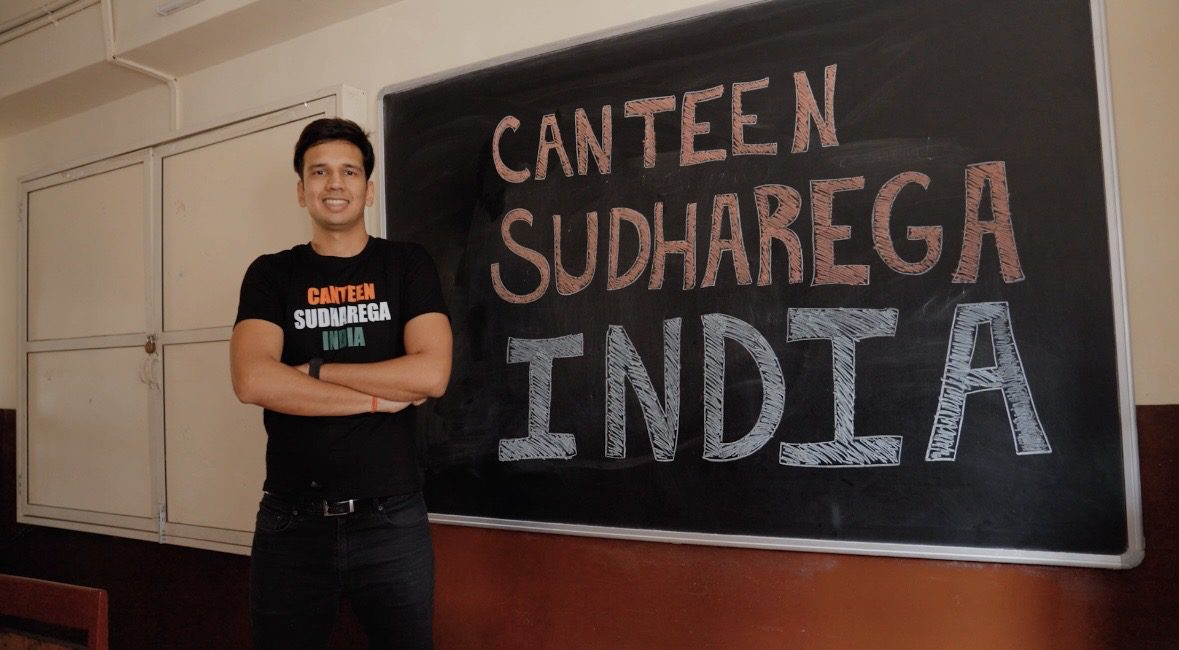
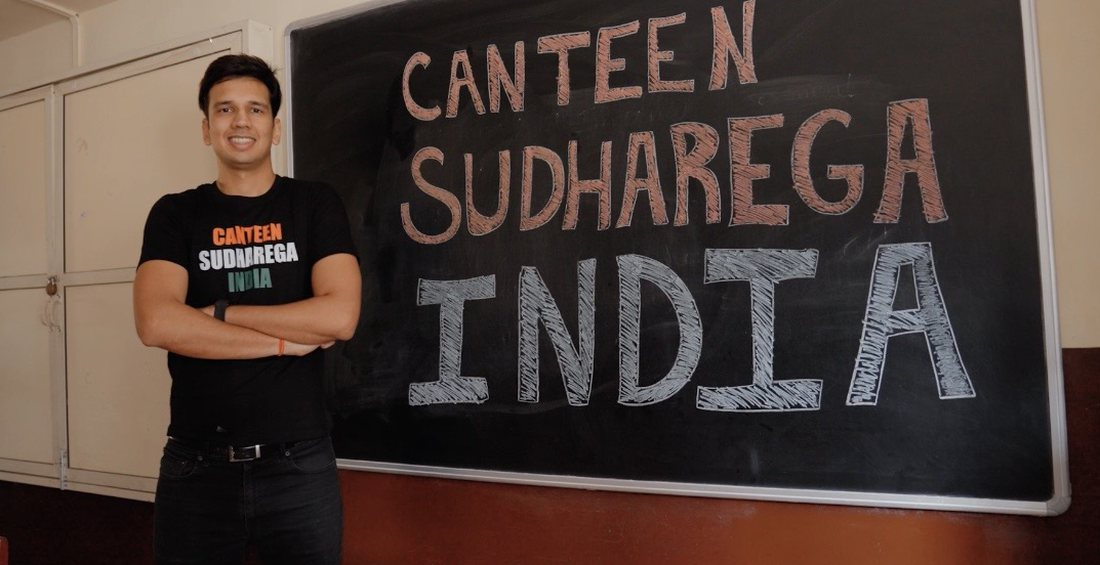
Searchable national campus picker, board toggle, tighter photos
- pick a campus from the full directory: 38,587 AISHE colleges and
  311,889 UDISE secondary schools, searchable, with a free-text fallback
- city-wise list switches between colleges and schools with a toggle
- thank-you block simplified: campus signature count plus what you can do
- photos cropped so the text and faces carry the frame

diff --git a/index.html b/index.html
@@ -159,6 +159,9 @@ footer b{color:var(--ink)}
 .seg{display:grid;grid-template-columns:1fr 1fr;border:2px solid var(--ink);border-radius:12px;overflow:hidden;margin-bottom:6px}
 .seg button{border:0;background:#fff;padding:10px;font-weight:700}
 .seg button[aria-pressed=true]{background:var(--ink);color:#fff}
+.segboard{max-width:360px;margin:0 0 14px;border-radius:999px;box-shadow:var(--shadow)}
+.segboard button{padding:12px 10px}
+.segboard button[aria-pressed=true]{background:var(--red);color:#fff}
 label.f,.flabel{display:block;font-weight:700;font-size:14px;margin:14px 0 6px}
 label.f small,.flabel small{font-weight:400;color:var(--muted)}
 .in{width:100%;border:2px solid var(--ink);border-radius:12px;padding:12px 14px;font:inherit;font-size:16px;background:#fff}
@@ -180,6 +183,28 @@ textarea.in{min-height:84px;resize:vertical}
 .qtag[aria-pressed=true]{background:var(--butter)}
 .photos{display:flex;flex-wrap:wrap;gap:10px;align-items:center}
 .tapHint{margin:2px 0 8px}
+
+/* campus picker: full screen on a phone, a centred panel on a laptop */
+button.picker{display:flex;align-items:center;justify-content:space-between;gap:10px;text-align:left;width:100%;cursor:pointer;background:#fff}
+button.picker .ph{color:#9b8f86}
+button.picker .caret{flex:none;color:var(--muted)}
+.pickwrap{position:fixed;inset:0;z-index:70;background:#fff;display:flex;flex-direction:column}
+.pickbar{display:flex;gap:8px;padding:12px;padding-top:max(12px,env(safe-area-inset-top));border-bottom:2.5px solid var(--ink);background:var(--paper)}
+.pickin{flex:1;min-width:0;font:inherit;font-size:16px;padding:12px 14px;border:2.5px solid var(--ink);background:#fff;color:var(--ink)}
+.pickx{flex:none;width:46px;border:2.5px solid var(--ink);background:#fff;font-size:17px}
+.pickhint{margin:0;padding:10px 14px;font-size:13px;color:var(--muted);background:var(--paper);border-bottom:1.5px solid var(--line)}
+.picklist{list-style:none;margin:0;padding:0;flex:1;overflow-y:auto;-webkit-overflow-scrolling:touch}
+.picklist li{border-bottom:1.5px solid var(--line)}
+.picklist button{display:block;width:100%;text-align:left;padding:14px;background:#fff;border:0;font:inherit;line-height:1.35}
+.picklist button:active{background:var(--sage-l)}
+.picklist .pn{display:block;font-weight:700}
+.picklist .pc{display:block;font-size:13px;color:var(--muted);margin-top:2px}
+.picklist .pcount{color:var(--green-d);font-weight:700}
+.pickfoot{padding:12px;padding-bottom:max(12px,env(safe-area-inset-bottom));border-top:2.5px solid var(--ink);background:var(--paper)}
+.useown{width:100%;padding:14px;border:2.5px solid var(--ink);background:var(--butter);font-weight:700;box-shadow:var(--shadow)}
+@media (min-width:720px){
+  .pickwrap{inset:6vh 50% auto 50%;transform:translateX(-50%);width:min(560px,92vw);max-height:84vh;border:3px solid var(--ink);box-shadow:8px 8px 0 var(--ink)}
+}
 .grp{margin:14px 0 0}
 .grph{margin:0 0 6px;font-size:13px;letter-spacing:.06em;text-transform:uppercase;color:var(--muted);display:flex;align-items:center;gap:8px}
 .grph span{background:var(--sage-l);border:1.5px solid var(--ink);border-radius:999px;padding:1px 8px;font-size:11px;color:var(--ink)}
@@ -187,9 +212,10 @@ textarea.in{min-height:84px;resize:vertical}
 .next h3{font-size:16px;margin:0 0 6px}
 .next p{margin:0 0 8px;font-size:14px;line-height:1.5}
 .next .nextb{margin:0;font-size:14px}
-.next .gap{color:var(--red);font-weight:700}
-.bar{display:block;height:10px;margin-top:9px;border:2px solid var(--ink);background:#fff}
-.bar i{display:block;height:100%;background:var(--green)}
+.next h4{margin:12px 0 6px;font-size:14px;text-transform:uppercase;letter-spacing:.05em;color:var(--red)}
+.next .todo{margin:0;padding-left:18px;font-size:14px;line-height:1.55}
+.next .todo li{margin:0 0 5px}
+.next .todo a{font-weight:700;word-break:break-word}
 #otherWrap{margin:0 0 10px}
 textarea.short{min-height:64px}
 .addph{display:inline-flex;align-items:center;gap:8px;border:2px dashed var(--ink);border-radius:12px;padding:12px 14px;font-weight:700;font-size:14px;background:#fff}
@@ -294,6 +320,10 @@ textarea.short{min-height:64px}
   <div class="wrap">
     <h2>The city-wise list</h2>
     <p class="board-sub">Schools and colleges ranked by the number of people who signed, with the average report-card grade students and parents gave their canteen.</p>
+    <div class="seg segboard" role="group" aria-label="Show colleges or schools">
+      <button type="button" data-kind="College" aria-pressed="true">🎓 Colleges</button>
+      <button type="button" data-kind="School" aria-pressed="false">🎒 Schools</button>
+    </div>
     <div class="tools">
       <input class="search" id="q" type="search" placeholder="Search your school, college or city…" aria-label="Search">
       <div class="chips" id="cityChips"></div>
@@ -312,6 +342,20 @@ textarea.short{min-height:64px}
 
 <div class="sticky" id="sticky"><button data-open>✍ Sign the petition →</button></div>
 
+<!-- campus picker -->
+<div class="pickwrap" id="pickWrap" hidden>
+  <div class="pickbar">
+    <input class="pickin" id="pickQ" type="search" autocomplete="off" autocorrect="off"
+           spellcheck="false" placeholder="Type your college name">
+    <button type="button" class="pickx" id="pickClose" aria-label="Close">✕</button>
+  </div>
+  <p class="pickhint" id="pickHint">Start typing — pick your campus from the list.</p>
+  <ul class="picklist" id="pickList"></ul>
+  <div class="pickfoot">
+    <button type="button" class="useown" id="useOwn" hidden></button>
+  </div>
+</div>
+
 <!-- form sheet -->
 <div class="scrim" id="scrim">
   <div class="sheet" id="sheet" role="dialog" aria-modal="true" aria-labelledby="sheetTitle">
@@ -326,9 +370,12 @@ textarea.short{min-height:64px}
           <button type="button" data-type="School" aria-pressed="false">🎒 School</button>
         </div>
 
-        <label class="f" for="inst">College / school name</label>
-        <input class="in" id="inst" list="instList" autocomplete="organization" placeholder="e.g. St. Xavier's College" maxlength="120">
-        <datalist id="instList"></datalist>
+        <label class="f" for="instBtn" id="instLbl">College name</label>
+        <button type="button" class="in picker" id="instBtn">
+          <span id="instText" class="ph">Search for your college</span>
+          <span class="caret" aria-hidden="true">▾</span>
+        </button>
+        <input type="hidden" id="inst" maxlength="120">
 
         <label class="f" for="city">City</label>
         <input class="in" id="city" list="cityList" autocomplete="address-level2" placeholder="e.g. Pune" maxlength="60">
@@ -382,12 +429,16 @@ textarea.short{min-height:64px}
       </div>
       <div class="next">
         <h3>What happens next</h3>
-        <p>Every signature is counted against your campus by name. The campuses with the
-           most signatures are the ones this campaign puts its weight behind first — in the
-           videos, and in what we take to the people who run these canteens.</p>
+        <p>Every signature is counted against your campus. We reach out to the campuses on
+           this list as part of a nationwide student movement for better canteens.</p>
         <p class="nextb" id="campusLine"></p>
+        <h4>What you can do</h4>
+        <ul class="todo">
+          <li>Write to your canteen or management asking for clean, affordable, healthy food.</li>
+          <li>Copy <a href="mailto:canteensudhergaindia@foodpharmer.net">canteensudhergaindia@foodpharmer.net</a> so we can back you up.</li>
+          <li>Get your batchmates and parents to sign.</li>
+        </ul>
       </div>
-      <p class="sharelead">So the fastest way to get your canteen looked at is to get your batchmates and parents to sign too.</p>
       <div class="share">
         <a class="wa" id="waBtn" href="#" target="_blank" rel="noopener">Share on WhatsApp</a>
         <button type="button" id="copyBtn">Copy message</button>
@@ -467,7 +518,7 @@ const SAMPLE = [
   ["Example Girls' College","Jaipur","College",77,123,77],["Demo Central School","Lucknow","School",58,29,58]
 ];
 
-const S = { type:"College", grade:"", tags:new Set(), photos:[], city:"all", q:"", open:new Set(), opened:0,
+const S = { type:"College", kind:"College", grade:"", tags:new Set(), photos:[], city:"all", q:"", open:new Set(), opened:0,
             data:{ list:[] }, shown:0 };
 
 /* ---------- data ---------- */
@@ -549,7 +600,7 @@ function render(){
 }
 function renderBoard(){
   const groups = new Map();
-  S.data.list.filter(r => +r[3] > 0).forEach(r => {
+  S.data.list.filter(r => +r[3] > 0 && (r[2] || "College") === S.kind).forEach(r => {
     const k = key(r[1]);
     if (!groups.has(k)) groups.set(k, { k, name: r[1], total: 0, items: [] });
     const g = groups.get(k); g.total += +r[3]; g.items.push(r);
@@ -562,39 +613,27 @@ function renderBoard(){
     `<button class="chip" data-city="${esc(c.k)}" aria-pressed="${c.k === S.city}">${esc(c.name)}</button>`).join("");
 
   const allCampuses = list.reduce((n, g) => n + g.items.length, 0);
-  $("#status").textContent = allCampuses ? `${fmt(allCampuses)} campus${allCampuses === 1 ? "" : "es"} across ${fmt(groups.size)} cit${groups.size === 1 ? "y" : "ies"}` : "";
+  const noun = S.kind === "School" ? "school" : "college";
+  $("#status").textContent = allCampuses ? `${fmt(allCampuses)} ${noun}${allCampuses === 1 ? "" : "s"} across ${fmt(groups.size)} cit${groups.size === 1 ? "y" : "ies"}` : "";
 
   if (S.city !== "all") list = list.filter(g => g.k === S.city);
   const q = key(S.q);
   if (q) list = list.map(g => ({ ...g, items: g.k.includes(q) ? g.items : g.items.filter(r => key(r[0]).includes(q)) })).filter(g => g.items.length);
 
   if (!list.length){
-    $("#cities").innerHTML = `<div class="empty">${q ? "No match yet. Be the first to add this campus!" : "No campuses yet. Yours could be first."}
+    $("#cities").innerHTML = `<div class="empty">${q ? "No match yet. Be the first to add this campus!" : (S.kind === "School" ? "No schools on the list yet. Yours could be first." : "No colleges on the list yet. Yours could be first.")}
       <br><br><button class="chip" data-open>✍ Sign for my campus</button></div>`;
     return;
   }
-  // Colleges and schools are listed separately inside each city.
-  const rows = (items, offset) => items.map((r, i) =>
-    `<li><span class="rk">${i + 1 + offset}</span><span class="nm">${esc(r[0])}</span><span class="ct">${fmt(r[3])}<small>signed</small></span>${badge(letter(+r[4], +r[5]))}</li>`).join("");
-
   $("#cities").innerHTML = list.map(g => {
+    const items = g.items.sort((a, b) => b[3] - a[3]);
     const full = S.open.has(g.k) || !!q;
-    const byType = t => g.items.filter(r => (r[2] || "College") === t).sort((a, b) => b[3] - a[3]);
-    const parts = [["College", "🎓 Colleges"], ["School", "🎒 Schools"]].map(([t, heading]) => {
-      const items = byType(t);
-      if (!items.length) return "";
-      const vis = full ? items : items.slice(0, SHOW_TOP);
-      return `<div class="grp">
-        <h4 class="grph">${heading} <span>${fmt(items.length)}</span></h4>
-        <div class="cols"><span>#</span><span>${t === "School" ? "School" : "College"}</span><span>Signed</span><span>Grade</span></div>
-        <ol>${rows(vis, 0)}</ol>
-      </div>`;
-    }).join("");
-    const most = Math.max(byType("College").length, byType("School").length);
+    const vis = full ? items : items.slice(0, SHOW_TOP);
     return `<section class="city">
-      <header><h3>${esc(g.name)}</h3><span>${fmt(g.total)} signed<br>${g.items.length} campus${g.items.length === 1 ? "" : "es"}</span></header>
-      ${parts}
-      ${most > SHOW_TOP && !q ? `<button class="more" data-more="${esc(g.k)}">${full ? "Show top 3 ↑" : `See the entire list (${g.items.length}) ↓`}</button>` : ""}
+      <header><h3>${esc(g.name)}</h3><span>${fmt(g.total)} signed<br>${items.length} ${S.kind === "School" ? "school" : "college"}${items.length === 1 ? "" : "s"}</span></header>
+      <div class="cols"><span>#</span><span>${S.kind === "School" ? "School" : "College"}</span><span>Signed</span><span>Grade</span></div>
+      <ol>${vis.map((r, i) => `<li><span class="rk">${i + 1}</span><span class="nm">${esc(r[0])}</span><span class="ct">${fmt(r[3])}<small>signed</small></span>${badge(letter(+r[4], +r[5]))}</li>`).join("")}</ol>
+      ${items.length > SHOW_TOP && !q ? `<button class="more" data-more="${esc(g.k)}">${full ? "Show top 3 ↑" : `See the entire list (${items.length}) ↓`}</button>` : ""}
     </section>`;
   }).join("");
 }
@@ -659,11 +698,10 @@ $("#photoIn").addEventListener("change", async e => {
    school canteen is graded by students and parents alike. */
 function syncWording(){
   const school = S.type === "School";
-  const inst = $("#inst"), wishLbl = $("#wishLbl");
-  if (inst){
-    inst.placeholder = school ? "e.g. Delhi Public School" : "e.g. St. Xavier's College";
-    inst.previousElementSibling && (inst.previousElementSibling.textContent = school ? "School name" : "College name");
-  }
+  const lbl = $("#instLbl"), wishLbl = $("#wishLbl");
+  if (lbl) lbl.textContent = school ? "School name" : "College name";
+  // switching type invalidates a campus chosen from the other directory
+  setCampus("", "");
   if (wishLbl){
     wishLbl.innerHTML = (school
       ? "If you could change one thing in this school canteen, what would it be? "
@@ -679,6 +717,7 @@ function syncWording(){
 function resetForm(){
   $("#form").reset(); S.grade = ""; S.tags.clear(); S.photos = [];
   $("#otherWrap").hidden = true; $("#otherIssue").value = "";
+  setCampus("", "");
   $$("[data-grade]").forEach(b => b.setAttribute("aria-pressed", "false"));
   $("#qtags").innerHTML = TAGS.map(t => `<button type="button" class="qtag" aria-pressed="false">${t}</button>`).join("");
   syncWording();
@@ -690,7 +729,7 @@ function openSheet(){
   $("#formView").hidden = false; $("#doneView").hidden = true;
   $("#scrim").classList.add("open");
   document.body.style.overflow = "hidden";
-  setTimeout(() => $("#inst").focus(), 60);
+  setTimeout(() => $("#instBtn").focus(), 60);
 }
 function closeSheet(){
   $("#scrim").classList.remove("open"); document.body.style.overflow = "";
@@ -708,7 +747,7 @@ async function submit(e){
     website: $("#website").value, elapsed: Date.now() - S.opened
   };
   const err = m => { $("#err").textContent = m; };
-  if (p.institution.length < 3) return err("Please enter your college or school name."), $("#inst").focus();
+  if (p.institution.length < 3) return err("Please choose your college or school."), $("#instBtn").focus();
   if (p.city.length < 2) return err("Please enter your city."), $("#city").focus();
   if (!p.grade) return err("Please give your canteen a grade: A, B, C, D or F.");
   if (p.reason.length < 10) return err("Tell us what's wrong in a few words (at least 10 characters)."), $("#reason").focus();
@@ -743,14 +782,9 @@ function showDone(p){
   $("#cInst").textContent = p.institution;
   $("#cCity").textContent = p.city;
 
-  // Show how the signer's own campus is doing, and the next milestone to chase.
   const n = S.lastCampusCount || 1;
-  const MILES = [10, 25, 50, 100, 250, 500, 1000];
-  const target = MILES.find(m => m > n) || (Math.ceil(n / 1000) + 1) * 1000;
   $("#campusLine").innerHTML =
-    `<b>${esc(p.institution)}</b> now has <b>${fmt(n)}</b> signature${n === 1 ? "" : "s"}.` +
-    ` <span class="gap">${fmt(target - n)} more to reach ${fmt(target)}.</span>` +
-    `<span class="bar"><i style="width:${Math.max(4, Math.round(n / target * 100))}%"></i></span>`;
+    `<b>${esc(p.institution)}</b> now has <b>${fmt(n)}</b> signature${n === 1 ? "" : "s"}.`;
   const msg = `I just signed the Canteen Sudharega India petition and gave our canteen at ${p.institution} a "${p.grade}". We want clean, healthy food in every school and college canteen. It's anonymous and takes a minute: ${url} #CanteenSudharegaIndia`;
   $("#waBtn").href = "https://wa.me/?text=" + encodeURIComponent(msg);
   $("#copyBtn").textContent = "Copy message";
@@ -787,6 +821,12 @@ document.addEventListener("click", e => {
     if (on && !ta.value.includes(q.textContent)) ta.value = (ta.value ? ta.value.replace(/[.,\s]*$/, "") + ", " : "") + q.textContent;
     return;
   }
+  const kb = e.target.closest("[data-kind]");
+  if (kb){
+    S.kind = kb.dataset.kind;
+    $$("[data-kind]").forEach(b => b.setAttribute("aria-pressed", b === kb));
+    return renderBoard();
+  }
   const ch = e.target.closest("[data-city]"); if (ch){ S.city = ch.dataset.city; return renderBoard(); }
   const m = e.target.closest("[data-more]");
   if (m){ const k = m.dataset.more; S.open.has(k) ? S.open.delete(k) : S.open.add(k); return renderBoard(); }
@@ -795,37 +835,79 @@ document.addEventListener("keydown", e => { if (e.key === "Escape") closeSheet()
 $("#form").addEventListener("submit", submit);
 $("#q").addEventListener("input", e => { S.q = e.target.value; renderBoard(); });
 
-function wireInstitutionLookup(){
-  if (DEMO) return;
-  const inst = $("#inst"), city = $("#city");
-  let t = null, last = "";
-  const cityOf = new Map();   // campus name -> its city, for auto-filling
+/* ---------- campus picker ----------
+   A searchable list over the full directory (every AISHE college and every
+   secondary school in UDISE), so people choose their campus instead of
+   typing it. Anything missing can still be added by hand. */
+function setCampus(name, city){
+  $("#inst").value = name;
+  const t = $("#instText");
+  t.textContent = name || (S.type === "School" ? "Search for your school" : "Search for your college");
+  t.classList.toggle("ph", !name);
+  if (city && !tidy($("#city").value)) $("#city").value = city;
+}
 
-  const look = async () => {
-    const q = tidy(inst.value);
-    if (q.length < 2 || q === last) return;
-    last = q;
-    try {
-      const rows = await rpc("suggest_institutions", { q: q, city: tidy(city.value) || null, lim: 10 });
-      if (!Array.isArray(rows)) return;
-      rows.forEach(r => { if (r[1]) cityOf.set(key(r[0]), r[1]); });
-      // Campuses already on record come first (they carry real counts),
-      // then the directory. Either way the submitter picks an existing
-      // spelling instead of inventing a new one.
-      const onRecord = rows.map(r => r[0]);
-      const rest = [...new Set(S.data.list.map(r => r[0]))].filter(n => !onRecord.includes(n));
-      $("#instList").innerHTML = [...onRecord, ...rest.sort()]
-        .map(n => `<option value="${esc(n)}">`).join("");
-    } catch(e){ /* fall back to the names already in the board */ }
+function wireInstitutionLookup(){
+  const wrap = $("#pickWrap"), q = $("#pickQ"), listEl = $("#pickList"),
+        hint = $("#pickHint"), useOwn = $("#useOwn");
+  let t = null, reqId = 0;
+
+  const open = () => {
+    wrap.hidden = false;
+    document.body.style.overflow = "hidden";
+    q.placeholder = S.type === "School" ? "Type your school name" : "Type your college name";
+    q.value = tidy($("#inst").value);
+    render([]);
+    setTimeout(() => q.focus(), 50);
+    if (q.value.length >= 2) search();
+  };
+  const close = () => {
+    wrap.hidden = true;
+    document.body.style.overflow = $("#scrim").classList.contains("open") ? "hidden" : "";
   };
 
-  inst.addEventListener("input", () => { clearTimeout(t); t = setTimeout(look, 220); });
-  // picking a known campus fills the city in, which removes a whole class of typos
-  inst.addEventListener("change", () => {
-    const c = cityOf.get(key(inst.value));
-    if (c && !tidy(city.value)) city.value = c;
+  function render(rows){
+    const typed = tidy(q.value);
+    listEl.innerHTML = rows.map(r => {
+      const nm = esc(r[0]), ct = esc(r[1] || ""), n = +r[2] || 0;
+      const meta = [ct, n ? `<span class="pcount">${fmt(n)} signed</span>` : ""].filter(Boolean).join(" · ");
+      return `<li><button type="button" data-pick="${nm}" data-city="${ct}">
+        <span class="pn">${nm}</span>${meta ? `<span class="pc">${meta}</span>` : ""}</button></li>`;
+    }).join("");
+    if (typed.length >= 3){
+      useOwn.hidden = false;
+      useOwn.textContent = `Can't find it — use "${typed}"`;
+    } else useOwn.hidden = true;
+    hint.textContent = typed.length < 2
+      ? (S.type === "School" ? "Start typing your school's name." : "Start typing your college's name.")
+      : (rows.length ? `${rows.length} match${rows.length === 1 ? "" : "es"} — tap yours.`
+                     : "No match in the directory. You can still add it below.");
+  }
+
+  async function search(){
+    const typed = tidy(q.value);
+    if (typed.length < 2) return render([]);
+    const mine = ++reqId;
+    try {
+      const rows = await rpc("suggest_institutions", {
+        q: typed, city: tidy($("#city").value) || null, lim: 25, kind: S.type });
+      if (mine !== reqId) return;          // a newer keystroke already won
+      render(Array.isArray(rows) ? rows : []);
+    } catch(e){ if (mine === reqId) render([]); }
+  }
+
+  $("#instBtn").addEventListener("click", open);
+  $("#pickClose").addEventListener("click", close);
+  q.addEventListener("input", () => { clearTimeout(t); t = setTimeout(search, 180); });
+  q.addEventListener("keydown", e => { if (e.key === "Enter"){ e.preventDefault(); } });
+  useOwn.addEventListener("click", () => { setCampus(tidy(q.value), ""); close(); });
+  listEl.addEventListener("click", e => {
+    const b = e.target.closest("[data-pick]");
+    if (!b) return;
+    setCampus(b.dataset.pick, b.dataset.city || "");
+    close();
   });
-  city.addEventListener("change", () => { last = ""; look(); });
+  document.addEventListener("keydown", e => { if (e.key === "Escape" && !wrap.hidden) close(); });
 }
 
 if ("IntersectionObserver" in window){
